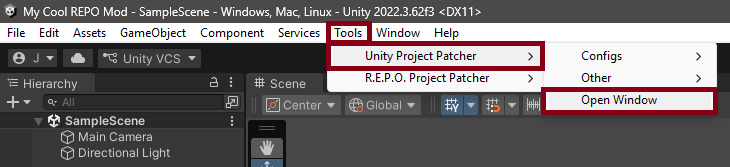
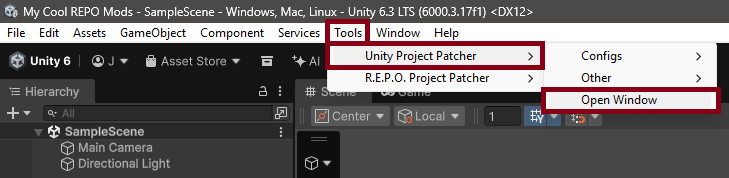
Update docs REPO v0.5.0 update info
- Update docs about the new required Unity Editor version 6000.3.17f1
- Update images
- Change MenuLib links to the new REPOModding Team Pages.

diff --git a/docs/apis/repolib/sdk/start.md b/docs/apis/repolib/sdk/start.md
@@ -7,45 +7,44 @@ If not, first follow the guide in [Unity Project Setup](../../../unity.md).
 
 ## Adding REPOLib to the Project
 
-1. Navigate to the Unity menu bar and click `Window > Package Manager`.
-2. Click the `+` button in the top left of the Package Manager and choose `Add package from git URL...`:
+Navigate to the Unity menu bar and click `Window > Package Management > Package Manager`.\
+Click the **`+`** button in the top left of the Package Manager and choose **`Add package from git URL...`**
 
-   ![Screenshot](/unity/1.png)
+![Screenshot](/unity/1.png)
 
-3. Paste the **following** Unity Package link into this text field:
+Paste the **following** Unity Package link into the text field:
 
-   ![Screenshot](/unity/2.png)
+**REPOLib SDK**
+::: code-group
+```bash
+https://github.com/ZehsTeam/REPOLib-Sdk.git
+```
+:::
+   
+::: tip
+To update **REPOLib SDK**, open the Package Manager, select the `REPOLib-Sdk` package in the list, and click `Update`.
+:::
 
-   - **REPOLib SDK**: Editor tools that streamline REPOLib content creation and export.
-   ```bash
-   https://github.com/ZehsTeam/REPOLib-Sdk.git
-   ```
+After **REPOLib SDK** finishes installing, you need to add the missing REPOLib `.dll` to your project in the following steps.
 
-   ::: tip
-   To update **REPOLib SDK**, open the Package Manager, select the `REPOLib-Sdk` package in the list, and click `Update`.
-   :::
+Download **[REPOLib](https://thunderstore.io/c/repo/p/Zehs/REPOLib)** from Thunderstore and Extract the contents of the downloaded archive.\
+Copy or drag-and-drop the `REPOLib.dll` file into any location within your project's `Assets` folder:
 
-   After **REPOLib SDK** finishes installing, you need to add the missing REPOLib `.dll` to your project in the following steps.
+![Screenshot](/repolib/sdk/start/0.png)
 
-4. Download **[REPOLib](https://thunderstore.io/c/repo/p/Zehs/REPOLib)** from Thunderstore.
-5. Extract the downloaded archive.
-6. Copy or drag-and-drop the `REPOLib.dll` file into any location within your project's `Assets` folder:
+To verify the installation, right-click inside the Project window. You should see a new sub-menu option: `Create > REPOLib`:
 
-   ![Screenshot](/repolib/sdk/start/0.png)
+![Screenshot](/repolib/sdk/start/1.png)
 
-7. To verify the installation, right-click inside the Project window. You should see a new sub-menu option: `Create > REPOLib`:
+::: warning
+If you have errors for missing references to **Assembly-CSharp-firstpass.dll**, select `REPOLib.dll` in the project window, then uncheck `Validate References` in the Inspector:
 
-   ![Screenshot](/repolib/sdk/start/1.png)
+![Screenshot](/repolib/sdk/start/2.png)
+:::
 
-   ::: warning
-   If you have errors for missing references to **Assembly-CSharp-firstpass.dll**, select `REPOLib.dll` in the project window, then uncheck `Validate References` in the Inspector:
-
-   ![Screenshot](/repolib/sdk/start/2.png)
-   :::
-
-   ::: tip
-   To update **REPOLib** in the future, simply replace the existing `.dll` file with the newer version.
-   :::
+::: tip
+To update **REPOLib** in the future, simply replace the existing `.dll` file with the newer version.
+:::
 
 ## Working with Mods and Content
 

diff --git a/docs/unity.md b/docs/unity.md
@@ -19,7 +19,7 @@ Download and Install the following:
    - **For Windows**: [Version 9.0](https://dotnet.microsoft.com/en-us/download/dotnet/9.0)
    - **For Linux**: [Version 10.0](https://dotnet.microsoft.com/en-us/download/dotnet/10.0)
 - [**Unity Hub**](https://unity.com/download)
-- [**Unity Editor 2022.3.62f3**](https://unity.com/releases/editor/whats-new/2022.3.62f3)
+- [**Unity Editor 6000.3.17f1**](https://unity.com/releases/editor/whats-new/6000.3.17f1)
 
 ::: danger Note
 Make sure you have selected the **Public** branch on Steam!\
@@ -28,21 +28,21 @@ The **R.E.P.O. Project Patcher** does **not** support **Beta** or other branches
 
 ## Unity Project Setup
 Create a new Unity project with the following configuration (see image below):
-- **Editor Version**: **`2022.3.62f3`**
+- **Editor Version**: **`6000.3.17f1`**
 - **Project Location**: Local Project
 - **Template**: 3D (Built-In Render Pipeline)
 
 ![Screenshot](/unity/0.png)
 
-Once Unity fully opens, navigate to the Menubar and click **`Window > Package Manager`**.\
-Click the **`+`** button at the top left of the **Package Manager** Window and choose\
-**`Add package from git URL...`** and install the required Unity Packages by pasting the following links one by one into the Text field:
+Once Unity fully opens, navigate to the menubar and click `Window > Package Management > Package Manager`.\
+Click the **`+`** button in the top left of the Package Manager and choose **`Add package from git URL...`**
+and install the required Unity Packages by pasting the following links **one by one** into the Text field:
 
 ![Screenshot](/unity/1.png)
 
 ::: warning
-If you had Unity open before installing [**Git**](https://git-scm.com/downloads), it will complain about [**Git**](https://git-scm.com/downloads) not being installed.\
-In this case, close the Unity Editor and Unity Hub, and make sure they are actually fully closed.\
+If you had Unity open before installing git, it will complain about git not being installed.\
+In this case, close Unity Editor and Unity Hub, and make sure they are actually fully closed.\
 If nothing is working, try restarting your PC.
 :::
 
@@ -100,7 +100,7 @@ Once BepInEx is enabled, click `Run Patcher` at the Top of the window to begin p
 ![Screenshot](/unity/6.png)
 
 ::: tip Expected patch behavior
-- Fresh patch time: ~25-35 minutes.
+- Fresh patch time: ~35-45 minutes.
 - Unity will restart approximately 5-6 times during the process.
 - Simply click **OK** on the 4 popups when prompted after starting the process.
 :::

diff --git a/docs/apis/menulib/overview.md b/docs/apis/menulib/overview.md
@@ -1,6 +1,6 @@
 # MenuLib Overview
 
-[MenuLib](https://thunderstore.io/c/repo/p/nickklmao/MenuLib) is a programming API designed to simplify the creation and management of custom UI menus within R.E.P.O.
+[MenuLib](https://thunderstore.io/c/repo/p/REPOModding/MenuLib) is a programming API designed to simplify the creation and management of custom UI menus within R.E.P.O.
 
 ::: warning Work in Progress
 This documentation page is currently a placeholder. Detailed API references and usage examples will be added soon.
@@ -29,5 +29,5 @@ This documentation page is currently a placeholder. Detailed API references and 
    ```
 
 ## Resources
-- [Thunderstore Page](https://thunderstore.io/c/repo/p/nickklmao/MenuLib)
-- [GitHub Repository](https://github.com/Nickklmao/MenuLib)
+- [Thunderstore Page](https://thunderstore.io/c/repo/p/REPOModding/MenuLib)
+- [GitHub Repository](https://github.com/REPOModding/MenuLib)

diff --git a/docs/harmonyx.md b/docs/harmonyx.md
@@ -190,10 +190,10 @@ This domain is owned by an official [Thunderstore staff member](https://github.c
 :::
 
 You can add a Thunderstore dependency to your `.csproj` like any other NuGet Package:
-> This example uses [Nickklmao's MenuLib](https://thunderstore.io/c/repo/p/nickklmao/MenuLib) mod.
+> This example uses [REPOModding's MenuLib](https://thunderstore.io/c/repo/p/REPOModding/MenuLib) mod.
 ```XML {2}
 <ItemGroup>
-  <PackageReference Include="Nickklmao-MenuLib" Version="2.*" />
+  <PackageReference Include="REPOModding-MenuLib" Version="2.*" />
 </ItemGroup>
 ```
 
